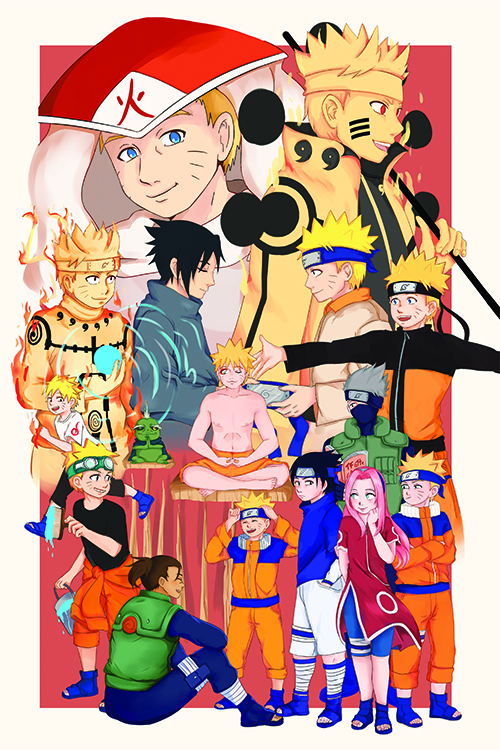
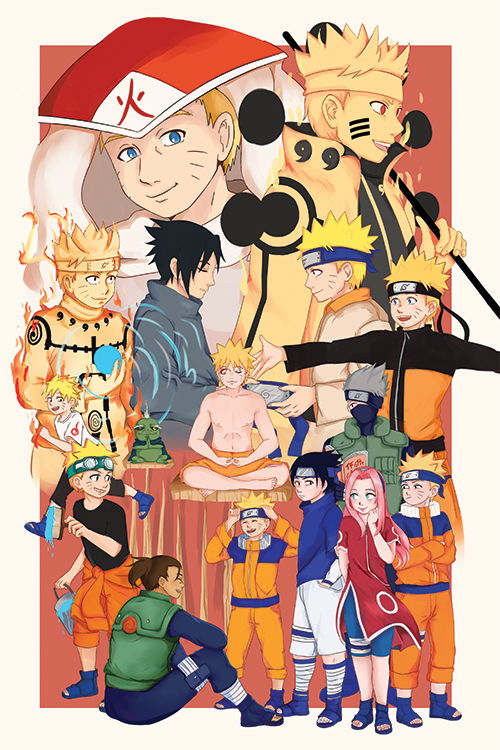
Reuploaded gallery images from RBG to CYMK
Re-uploaded the 5 fan art images. Fixed names to remove W2. Also small
update to JS. Duration of masonry items from 1100 to 750. Added
forgotten isAnimated:true field.

diff --git a/index.html b/index.html
@@ -87,13 +87,13 @@
         <img src="images/gallery/Originals/you allure me.jpg">
     </div>
     <div class="item w2">
-        <img src="images/gallery/Fanart/avatar w2.jpg">
+        <img src="images/gallery/Fanart/avatar.jpg">
     </div>
     <div class="item">
         <img src="images/gallery/Fanart/naruto.jpg">
     </div>
     <div class="item w2">
-        <img src="images/gallery/Fanart/noragami w2.jpg">
+        <img src="images/gallery/Fanart/noragami.jpg">
     </div>
     <div class="item">
         <img src="images/gallery/Fanart/schierke.jpg">

diff --git a/js/main.js b/js/main.js
@@ -7,8 +7,9 @@ $content.imagesLoaded(function() {
         itemSelector: '.item',
         gutter: 10,
         isFitWidth: true, // option in Masonry to determine largest column count possible for viewport
+        isAnimated: true,
         animationOptions: {
-        duration: 1100,
+                duration: 750,
             easing: 'linear',
             queue: false
          }
